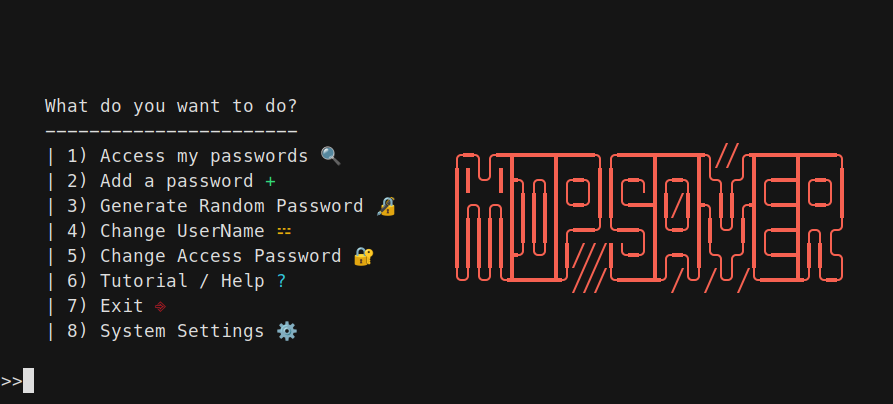
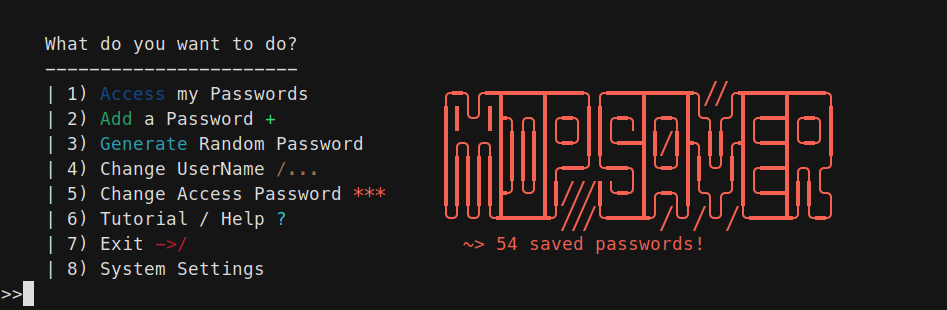
started the readme + fixed some details

diff --git a/MDP_APP/program.py b/MDP_APP/program.py
@@ -55,13 +55,14 @@ class Program:
         8) {Back.LIGHTBLUE_EX + "System settings" + Style.RESET_ALL} -> To try to debug the programs if troubles went to happen
         
         If you have any {Fore.CYAN + "recommendations" + Style.RESET_ALL}/{Fore.GREEN + "tips" + Style.RESET_ALL}/{Fore.RED + "bugs" + Style.RESET_ALL}, please contact me on discord: GaecKo#7545""")
+        input("\tPress Enter to continue.")
 
     def wanna_do(self):
         saved = self.get_number_of_saved_passwords()
         if saved > 1:
-            stri = f"{saved} saved passwords"
+            stri = f"~> {saved} saved passwords!"
         elif saved == 1:
-            stri = f"{saved} saved password"
+            stri = f"~> {saved} saved password!"
         else:
             stri = ""
 
@@ -75,7 +76,7 @@ class Program:
     | 4) Change UserName {Fore.YELLOW + "/..." + Style.RESET_ALL}           {Fore.LIGHTRED_EX + "┃┃┃┃┃┃┃┃┃┃╭━━╯╰━━╮┃╰━╯┃┃╰╯┃┃╭━━┫╭╮╭╯" + Style.RESET_ALL}
     | 5) Change Access Password {Fore.LIGHTRED_EX + "***" + Style.RESET_ALL}     {Fore.LIGHTRED_EX + "┃┃┃┃┃┣╯╰╯┃┃╱╱╱┃╰━╯┃╭━╮┃╰╮╭╯┃╰━━┫┃┃╰╮" + Style.RESET_ALL}
     | 6) Tutorial / Help {Fore.LIGHTCYAN_EX + "?" + Style.RESET_ALL}              {Fore.LIGHTRED_EX + "╰╯╰╯╰┻━━━┻╯╱╱╱╰━━━┻╯╱╰╯╱╰╯╱╰━━━┻╯╰━╯" + Style.RESET_ALL}
-    | 7) Exit {Fore.RED + "->/" + Style.RESET_ALL}                        ~> {Fore.LIGHTRED_EX + stri + Style.RESET_ALL} !
+    | 7) Exit {Fore.RED + "->/" + Style.RESET_ALL}                         {Fore.LIGHTRED_EX + stri + Style.RESET_ALL}
     | 8) System Settings"""
         )
         choice = input(">>")

diff --git a/MDP_APP/MDPSaver.py b/MDP_APP/MDPSaver.py
@@ -61,6 +61,7 @@ if __name__ == "__main__":
         program.check_data()
 
     while recovery.error():
+        print("\n" * 200)
         choice = program.wanna_do()
         if choice == 1:
             if not program.get_props():
@@ -84,8 +85,6 @@ if __name__ == "__main__":
                             break
                         elif isinstance(index, int) and not isinstance(index, bool):
                             index -= 1
-                            print("INDEX HAS BEEN CHANGED!!! Now: ", index)
-                            sleep(1.5)
                             site, username, code = program.search(given_password, index)
                             go = True
                             leave = False
@@ -120,7 +119,7 @@ if __name__ == "__main__":
                     action = program.option_password()
                     if action == 1:
                         print(program.print_site_password(site, username, code))
-                        print("\t press enter to hide password.")
+                        print("\t Press Enter to hide password.")
                         enter = input()
                         print("\n" * 200)
                     elif action == 2:

diff --git a/MDP_APP/SpeedTest.py b/MDP_APP/SpeedTest.py
@@ -7,16 +7,17 @@ init(autoreset=True)
 pr = Program()
 sr = SystemRecovery()
 global password
-password = "aRandomPassword1333!"
+password = "Coco1212"
 
 def generate_password(nbr:int):
     content = []
     for _ in range(nbr):
         content.append(encrypt(password, pr.generate_password(3) + " | " + pr.generate_password(3) + " | " + pr.generate_password(3)) + "\n")
     content[-1].rstrip("\n")
-    pr.check_data()
+    # pr.check_data()
     with open("MDPData/data.txt", 'w', encoding="utf-8") as f:
         f.writelines(content)
+
 
 def calcul_time(nbr_password:int) -> tuple:
     a = time.time()
@@ -26,7 +27,7 @@ def calcul_time(nbr_password:int) -> tuple:
     pr.sites_list(password)
     c = time.time()
     print(Fore.GREEN + f" ~> Done [2/2] ({str(round(c-b))} sec)")
-    sr.reset_data()
+    # sr.reset_data()
     return b-a, c-b
 
 def animation(loadingtext):
@@ -81,7 +82,3 @@ if __name__ == "__main__":
     time.sleep(1)
     write_result(create_time, load_time, nbr)
     
-        
-    
-    
-

diff --git a/README.md b/README.md
@@ -15,9 +15,9 @@ All of these are done with the `pycryptodome` and `cryptography` module, to make
 Here is a walkthrough of the app
 
 #### <ins> Starting Screen </ins>
-![Main Menu](.git_files/MainScreen.png?raw=true "Main Menu")
+![Starting Screen](.git_files/StartingScreen.gif)
 
 #### <ins> Main Menu </ins>
 ![Main Menu](.git_files/MainMenu.png?raw=true "Main Menu")
 
-#### <ins> Access Passwords </ins>
+##### <ins> 1) Access my Passwords </ins>
